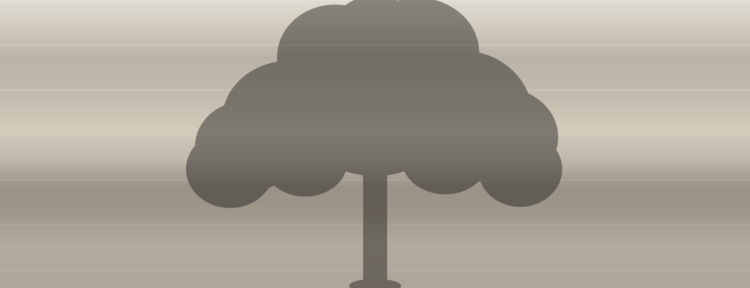
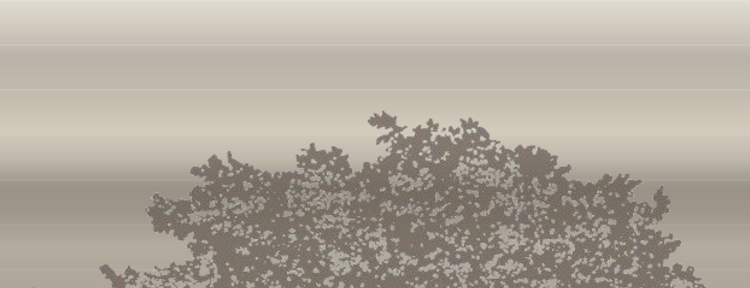
Use the real Post Oak Hotel canopy silhouette everywhere
Eric sent the actual Post Oak Hotel logo and asked to use the real tree
instead of the simplified ellipse mockup we'd been using. The hotel's
oak silhouette is more detailed and more on-brand — leaf cluster
texture, branching structure, the actual tree the hotel is named for.

- Extracted the canopy from the Post Oak Hotel logo via ImageMagick:
  cropped 620x190 starting at +200,+50 to isolate just the canopy (above
  the "POST OAK" wordmark and clipped from the "THE" text on the left),
  then made the white background transparent and trimmed bounds. Result:
  614x160 PNG with pixel-precise tree silhouette in the original warm
  brown (rgb 98,89,82).
- public/oak-canopy.png — served by Next.js for the in-app component.
- scripts/pass-template.pass/_oak-canopy.png — same asset, used by the
  pkpass build pipeline. Underscore prefix marks it as a build input,
  not a final pass artifact.
- [email redacted] + strip.png re-rendered with magick composite: brushed
  steel base + canopy at 75% opacity, anchored south, scaled to 740x.
  Apple Wallet renders primary text in the upper portion of the strip,
  so canopy bottom-anchored leaves clean steel for the text overlay.
- WalletPassFace component (in-app preview) — replaced the inline SVG
  ellipse oak with an <img src="/oak-canopy.png"> at 60% opacity,
  positioned top:10% left:3% width:94%. Framed wordmark sits ON the
  canopy, matching the physical card composition.
- founders.pkpass regenerated.
[…]

diff --git a/components/ClubApp.jsx b/components/ClubApp.jsx
@@ -780,31 +780,16 @@ const WalletPassFace = () => (
       ))}
     </svg>
 
-    {/* Oak silhouette — large, engraved, dominant. Builder's coords scaled to portrait. */}
-    <svg
-      className="absolute pointer-events-none"
-      style={{ top: "0%", left: "0%", width: "100%", height: "70%" }}
-      viewBox="0 0 400 252"
-      preserveAspectRatio="xMidYMid meet"
+    {/* Oak canopy — the real silhouette extracted from The Post Oak Hotel
+        logo. Anchored across the upper portion so the framed wordmark sits
+        within the canopy (matches the physical card composition). */}
+    <img
+      src="/oak-canopy.png"
+      alt=""
       aria-hidden="true"
-    >
-      <g fill={ENGRAVED} opacity="0.42">
-        <path d="M188,252 L188,148 Q194,140 200,142 Q206,140 212,148 L212,252 Z" />
-        <ellipse cx="200" cy="250" rx="26" ry="6" />
-        <ellipse cx="200" cy="82" rx="88" ry="72" />
-        <ellipse cx="115" cy="105" rx="68" ry="52" />
-        <ellipse cx="285" cy="100" rx="72" ry="56" />
-        <ellipse cx="160" cy="50" rx="58" ry="46" />
-        <ellipse cx="242" cy="46" rx="62" ry="48" />
-        <ellipse cx="72" cy="128" rx="52" ry="40" />
-        <ellipse cx="328" cy="120" rx="55" ry="43" />
-        <ellipse cx="200" cy="36" rx="48" ry="40" />
-        <ellipse cx="345" cy="148" rx="42" ry="33" />
-        <ellipse cx="55" cy="148" rx="44" ry="34" />
-        <ellipse cx="130" cy="142" rx="42" ry="30" />
-        <ellipse cx="270" cy="138" rx="44" ry="32" />
-      </g>
-    </svg>
+      className="absolute pointer-events-none"
+      style={{ top: "10%", left: "3%", width: "94%", opacity: 0.6 }}
+    />
 
     {/* NFC waves — top right */}
     <svg